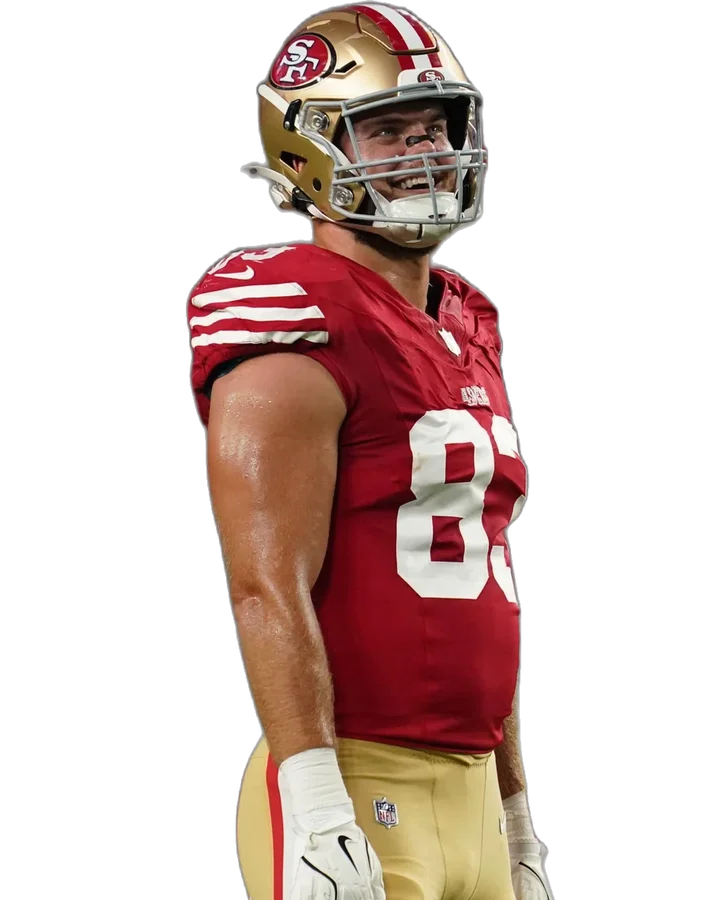
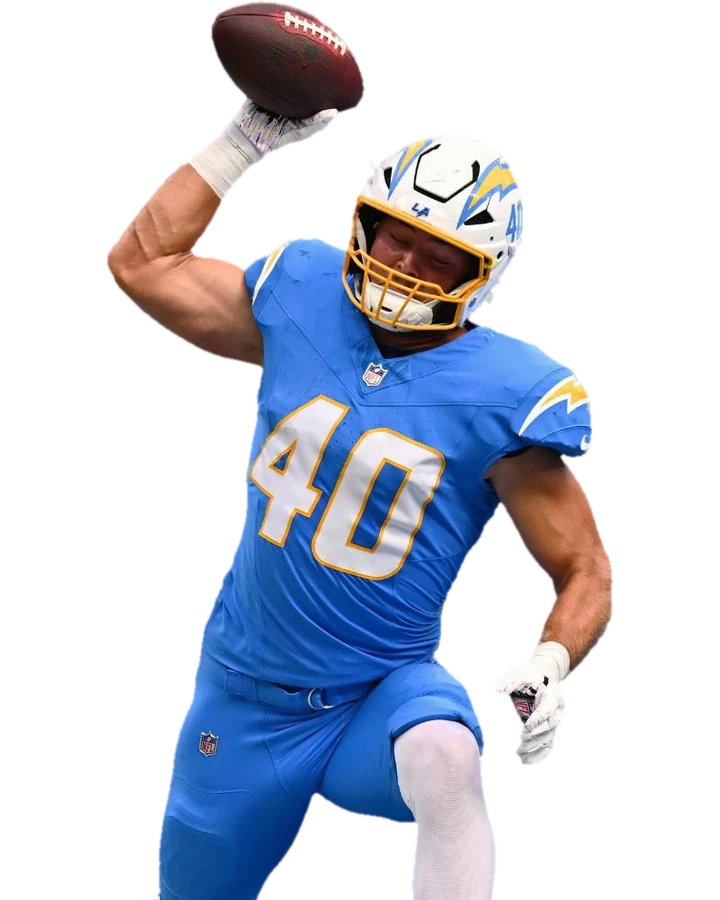
Rucci to Chargers (new card photo) on every page; non-TE proof: comp leads, 'A roster that gets paid', 40 years stat instead of the TE-market stat, wall mixes positions
Claude-Session: https://claude.ai/code/session_015MTjPAhQwh2MFLwXfpsYGJ

diff --git a/template.html b/template.html
@@ -818,9 +818,11 @@ const cardHTML=w=>`<div class="card ${w[2]||''}"><div class="ph-frame${w[3]?' cu
   $('#compEy').textContent='00 · '+(cp.eyebrow||'Who we see');$('#compH').textContent=cp.h;$('#compLede').textContent=cp.lede||'';$('#compFoot').textContent=cp.foot||'';
   $('#compVs').innerHTML=`<div class="heads"><figure><img src="${cp.me}" alt="${RECRUIT.first} ${RECRUIT.last}"><figcaption>${RECRUIT.first} ${RECRUIT.last}</figcaption></figure><div class="x">×</div><figure><img src="${cp.them}" alt="${cp.themName}"><figcaption class="them">${cp.themName}</figcaption></figure></div><table>${(cp.rows||[]).map(r=>`<tr><td class="a">${r[1]}</td><td class="k">${r[0]}</td><td class="b">${r[2]}</td></tr>`).join('')}</table>`;}}
 /* proof first: the client room is the first thing a recruit sees after his own name (proofFirst:false to turn off) */
-if(RECRUIT.proofFirst!==false){const pr=$('#proof'),ath=document.querySelector('[data-aud="athlete"]');if(pr&&ath){ath.insertBefore(pr,ath.firstElementChild);const cs=$('#comp');if(cs)pr.after(cs)}}
+/* TE: the room first, then the comp. Other positions: the comp (a JB client at his position) leads, then the roster that gets paid */
+if(RECRUIT.proofFirst!==false){const pr=$('#proof'),ath=document.querySelector('[data-aud="athlete"]');if(pr&&ath){ath.insertBefore(pr,ath.firstElementChild);const cs=$('#comp');const compFirst=RECRUIT.compFirst!=null?RECRUIT.compFirst:RECRUIT.positionGroup!=='TE';if(cs){if(compFirst)pr.before(cs);else pr.after(cs)}}}
 /* non-TE recruits: their own position group leads the wall */
-const WALL=RECRUIT.positionGroup==='TE'?RECRUIT.wall:[...RECRUIT.wall].sort((a,b)=>(b[1].startsWith(RECRUIT.positionGroup)?1:0)-(a[1].startsWith(RECRUIT.positionGroup)?1:0));
+/* non-TE: his position first, then the big contracts, then the other positions, then the rest of the TE room, so it doesn't read as a TE-only shop */
+const WALL=RECRUIT.positionGroup==='TE'?RECRUIT.wall:[...RECRUIT.wall].map((w,i)=>[w,(w[1].startsWith(RECRUIT.positionGroup)?0:w[4]?1:!w[1].startsWith('TE')?2:3)*100+i]).sort((a,b)=>a[1]-b[1]).map(x=>x[0]);
 const half=Math.ceil(WALL.length/2), A=WALL.slice(0,half), B=WALL.slice(half);
 $('#trackA').innerHTML=A.concat(A).map(cardHTML).join(''); $('#trackB').innerHTML=B.concat(B).map(cardHTML).join('');
 /* client wall: scripted drift (works on every phone, incl. iOS Low Power / Reduce Motion); swipe or hover pauses it */
@@ -856,8 +858,10 @@ $('#roster').classList.toggle('all',!isTE);$('#roster').innerHTML=(isTE
 if(!isTE){
   $('#whoH').textContent="A former NFL player, a contract lawyer, and forty years";
   $('#whoLede').textContent="Mid-size by choice. No shareholders, no quotas, nobody above you on a call sheet. Jack played in the league and coached. Ryan negotiates the contracts.";
-  $('#proofH').textContent="JB at your position, and the rooms around it";
-  $('#proofLede').textContent="Six clients have been the highest paid at their position. The room isn't one position; it's a roster that gets paid.";
+  $('#proofH').textContent="A roster that gets paid";
+  $('#proofLede').textContent=RECRUIT.proofLede||"Six clients have been the highest paid at their position, and Tucker Kraft's $75M extension this September is the latest. The same two people negotiate every deal, at every position.";
+  if(RECRUIT.proofH)$('#proofH').textContent=RECRUIT.proofH;
+  {const st=document.querySelectorAll('#proof .stat>div');if(st[1]){st[1].querySelector('.v').innerHTML='40<span></span>';st[1].querySelector('.v').dataset.to='40';st[1].querySelector('.k').textContent='years representing NFL players'}}
   $('#trainH').textContent="Prepared the way Kittle, LaPorta and Kraft were";
   $('#trainLede').textContent="The same Nashville prep model, built for your position: Combine and Pro Day training, position coaching, film, media and interview work. Below is what that preparation looks like for the guys who came through it.";
 }
@@ -930,7 +934,7 @@ if(!RM&&'IntersectionObserver' in window){const io=new IntersectionObserver(es=>
 function countUp(el,to,suffix,ms){if(RM){el.textContent=to+suffix;return}const t0=performance.now();(function f(t){const k=Math.min(1,(t-t0)/ms);const e=1-Math.pow(1-k,3);el.textContent=Math.round(to*e)+suffix;if(k<1)requestAnimationFrame(f)})(t0)}
 const stats=[...document.querySelectorAll('.stat .v')];
 const so=new IntersectionObserver(es=>es.forEach(e=>{if(!e.isIntersecting)return;so.unobserve(e.target);const i=stats.indexOf(e.target);
-  if(i===0)countUp(e.target,6,'',900); if(i===1){const sp=e.target.querySelector('span');e.target.innerHTML='';const n=document.createElement('span');e.target.append(n,sp);countUp(n,50,'',1100)} if(i===2){e.target.textContent='$0';setTimeout(()=>{e.target.textContent='~$1B'},RM?0:400)}
+  if(i===0)countUp(e.target,6,'',900); if(i===1){const sp=e.target.querySelector('span');e.target.innerHTML='';const n=document.createElement('span');e.target.append(n,sp);countUp(n,+(e.target.dataset.to||50),'',1100)} if(i===2){e.target.textContent='$0';setTimeout(()=>{e.target.textContent='~$1B'},RM?0:400)}
 }),{threshold:.6}); stats.forEach(s=>so.observe(s));
 
 /* ============ AUDIENCE SWITCH ============ */
